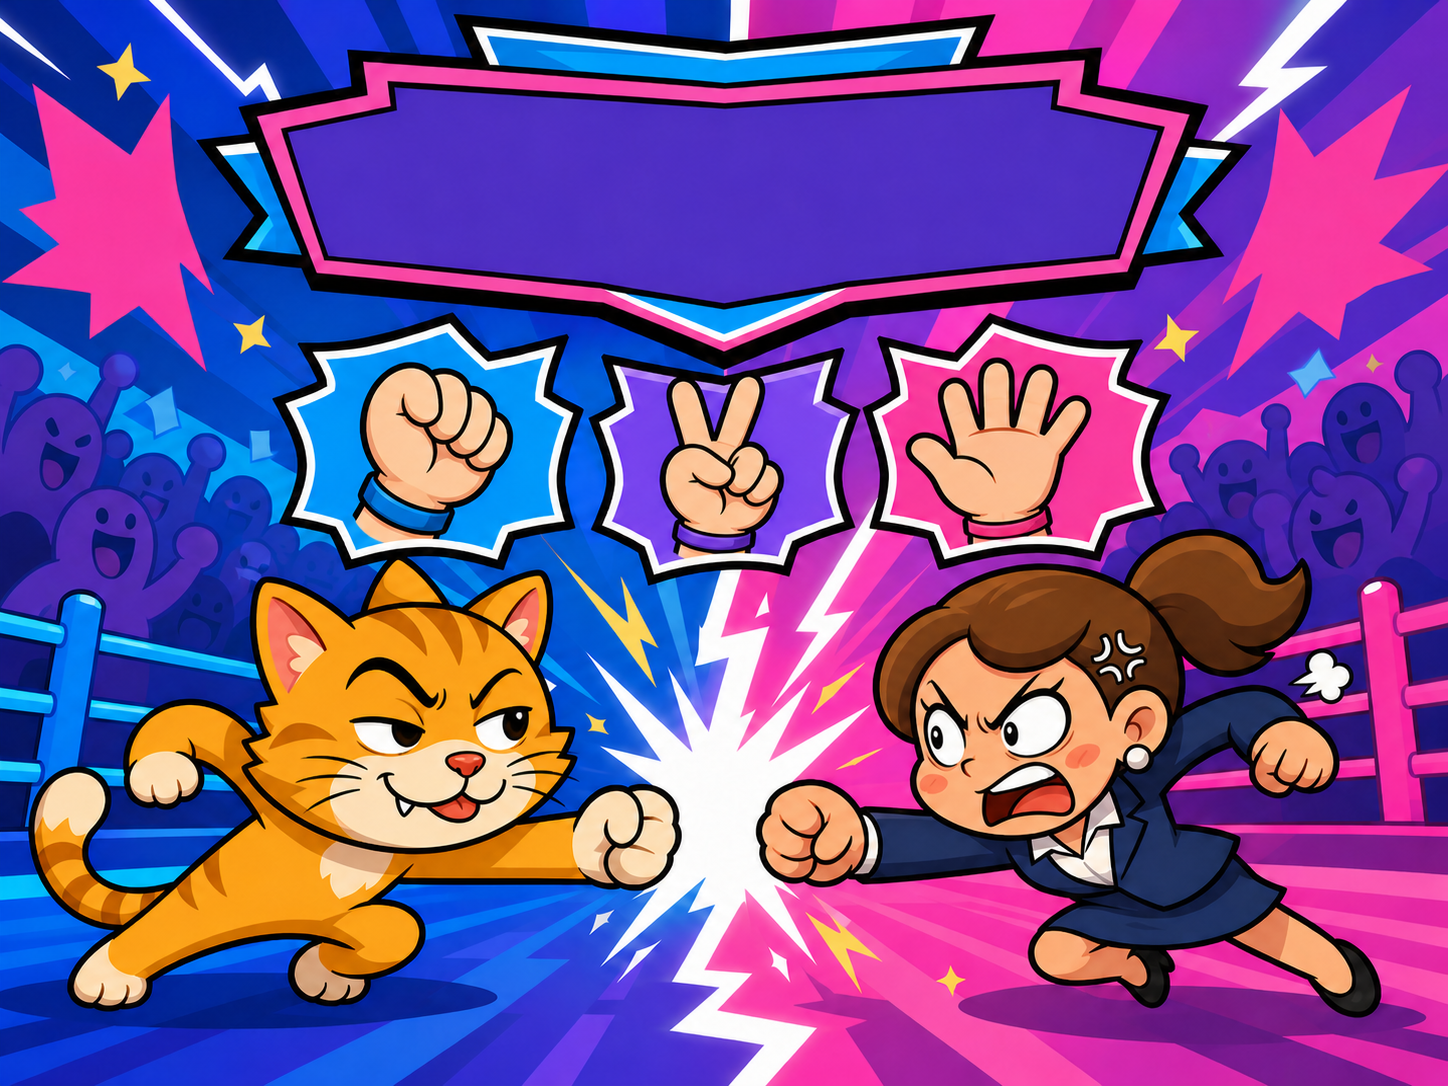
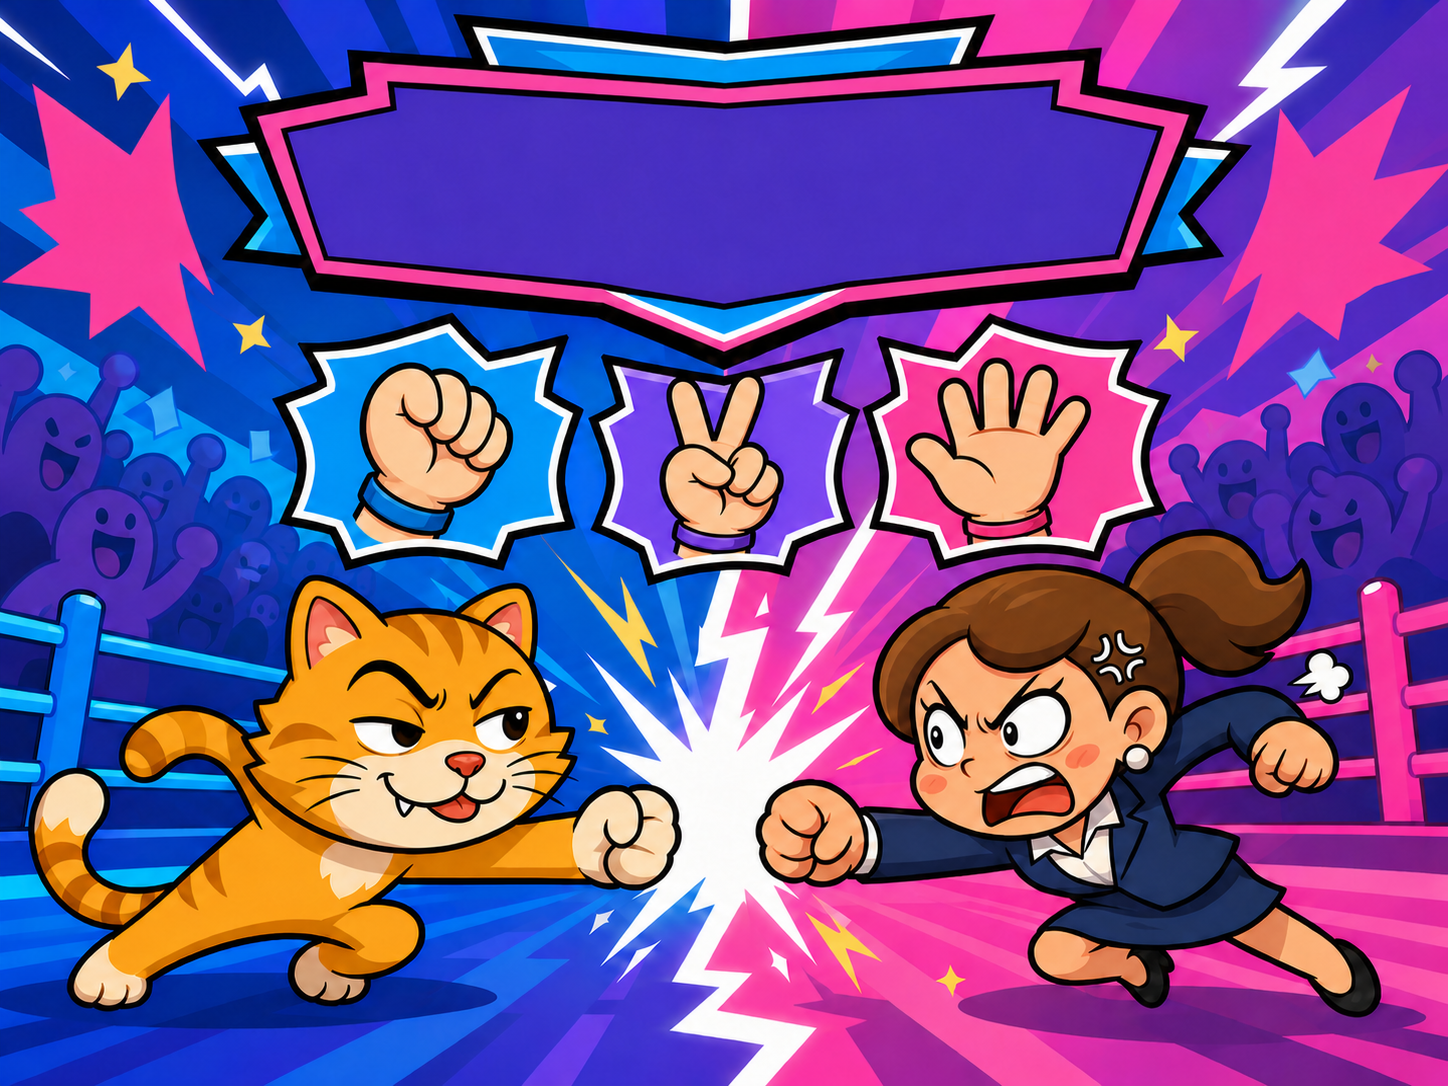
feat(ui): จัด layout หน้าแรกตามโครงเกมที่ 1
ศึกษาหน้าแรกเกมที่ 1 จริงแล้วยกโครงมาใช้:
- ฉากเต็มขอบจอ (วาดบน html canvas · ตัดแผ่นป้ายเปล่าออกจากภาพพื้นหลังกันซ้อนโลโก้)
- โลโก้ลอยกลางจอไม่มีกรอบ · เป็นตัวหดตัวเดียวของหน้า ปุ่มจึงไม่มุดใต้จอ
- เม็ดยาสถานะ 3 อัน (ซีซั่น · ลงสังเวียนแล้ว · จ่าฝูง) แทนบรรทัดข้อความ
- ปุ่มหลักเหลืองใหญ่เด่นตัวเดียว
- Dock แถบล่าง ไอคอน+ชื่อกำกับ (ui/Dock.tsx ใช้ซ้ำได้ · รอไอคอนจริงจาก Codex)
- ชิปลอยมุมจอซ้าย/ขวา

fix: ย้ายการตั้งภาพพื้นหลังจาก CSS ไป React
     เพราะ url() ใน CSS ไม่รู้จัก base path ของ GitHub Pages (/rps-arena/)

verify: เทส 110/110 · flow 16 จอ overflow=0

diff --git a/app/src/styles/global.css b/app/src/styles/global.css
@@ -23,9 +23,11 @@
   color: var(--paper);
 
   /* พื้นหลังวาดบน html canvas — เต็ม viewport เสมอ กันแถบสีหลุดที่ขอบจอ iPad (บทเรียนเกมที่ 1) */
-  background:
-    radial-gradient(circle at 50% 62%, rgba(255, 255, 255, 0.18), transparent 38%),
-    linear-gradient(135deg, var(--ring-blue-deep) 0%, var(--ring-purple) 50%, var(--ring-magenta) 100%);
+  /* ภาพฉากตั้งจาก React (data/assets.ts) เพราะ path ต่างกันระหว่าง dev กับ build บน GitHub Pages
+     วาดบน html canvas เพื่อให้เต็ม viewport เสมอ กันแถบสีหลุดที่ขอบจอ iPad (บทเรียนเกมที่ 1) */
+  background-color: var(--ring-blue-deep);
+  background-size: cover;
+  background-position: center bottom;
   background-attachment: fixed;
 }
 
@@ -548,46 +550,137 @@ img {
   white-space: nowrap;
 }
 
-/* ── หน้าแรก — ภาพไตเติลเต็มจอ + แถบปุ่มล่าง ─────────────── */
+/* ── หน้าแรก — โครงเดียวกับหน้าแรกเกมที่ 1 ─────────────────── */
 .home {
-  justify-content: space-between;
-  gap: clamp(6px, 1dvh, 12px);
-}
-
-/* ภาพเป็นตัวหดตัวเดียวของหน้า — ปุ่มจะได้ไม่มุดใต้จอเวลาจอเตี้ย (บทเรียนเกมที่ 1) */
-.home__art {
-  flex: 0 1 auto;
+  flex: 1 1 auto;
   min-height: 0;
-  max-width: 100%;
-  width: auto;
-  height: auto;
-  object-fit: contain;
-  border: 4px solid var(--ink);
-  border-radius: var(--radius);
-  box-shadow: 0 10px 0 rgba(0, 0, 0, 0.35);
+  display: flex;
+  flex-direction: column;
+  justify-content: space-between;
+  align-items: center;
+  gap: clamp(6px, 1dvh, 14px);
+  text-align: center;
 }
 
-.home__bar {
+/* ชิปมุมจอ */
+.home__topbar {
+  align-self: stretch;
+  display: flex;
+  justify-content: space-between;
   flex-shrink: 0;
+}
+
+.chip-btn {
+  font: inherit;
+  font-weight: 900;
+  font-size: clamp(12px, 1.8dvh, 16px);
+  color: var(--ink);
+  background: var(--paper);
+  border: var(--outline);
+  border-radius: 14px;
+  padding: clamp(6px, 1.1dvh, 11px) clamp(12px, 1.8vw, 20px);
+  box-shadow: 0 5px 0 rgba(0, 0, 0, 0.4);
+  cursor: pointer;
+}
+
+.chip-btn:disabled { opacity: 0.45; cursor: not-allowed; }
+.chip-btn:active:not(:disabled) { transform: translateY(4px); box-shadow: 0 1px 0 rgba(0, 0, 0, 0.4); }
+
+.home__center {
+  flex: 1 1 auto;
+  min-height: 0;
   display: flex;
   flex-direction: column;
   align-items: center;
-  gap: clamp(4px, 0.8dvh, 10px);
-  width: 100%;
+  justify-content: center;
+  gap: clamp(6px, 1.4dvh, 18px);
 }
 
-.home__status {
+/* โลโก้เป็นตัวหดตัวเดียวของหน้า — dock กับปุ่มจะได้ไม่มุดใต้จอ (บทเรียนเกมที่ 1) */
+.home__logo {
+  flex: 0 1 auto;
+  min-height: 0;
+  max-width: min(680px, 84vw);
+  max-height: 42dvh;
+  width: auto;
+  height: auto;
+  object-fit: contain;
+  filter: drop-shadow(0 10px 0 rgba(0, 0, 0, 0.35));
+}
+
+/* เม็ดยาสถานะ — แบบแถวสถิติในหน้าแรกเกมที่ 1 */
+.home__stats {
   display: flex;
-  gap: clamp(8px, 1.6vw, 20px);
+  gap: clamp(6px, 1.2vw, 14px);
   flex-wrap: wrap;
   justify-content: center;
-  font-weight: 800;
-  font-size: clamp(11px, 1.7dvh, 15px);
+  flex-shrink: 0;
 }
 
-.home__season { color: var(--spark); }
-.home__armed { opacity: 0.85; }
-.home__leader { color: var(--spark); }
+.stat-pill {
+  display: flex;
+  flex-direction: column;
+  align-items: center;
+  gap: 1px;
+  min-width: clamp(96px, 13vw, 150px);
+  padding: clamp(5px, 1dvh, 10px) clamp(10px, 1.6vw, 18px);
+  background: var(--paper);
+  color: var(--ink);
+  border: var(--outline);
+  border-radius: 16px;
+  box-shadow: 0 5px 0 rgba(0, 0, 0, 0.32);
+}
+
+.stat-pill b { font-size: clamp(15px, 2.5dvh, 22px); line-height: 1.1; }
+.stat-pill span { font-size: clamp(10px, 1.5dvh, 13px); opacity: 0.72; font-weight: 700; }
+
+.home__cta { font-size: clamp(17px, 2.8dvh, 25px); }
+.home__hint { margin: 0; font-size: clamp(11px, 1.7dvh, 15px); opacity: 0.85; }
+
+/* ── dock แถบเมนูล่าง — แบบเกมที่ 1 ─────────────────────── */
+.dock {
+  flex-shrink: 0;
+  display: flex;
+  gap: clamp(6px, 1.4vw, 18px);
+  justify-content: center;
+  padding: clamp(6px, 1.1dvh, 12px) clamp(12px, 2vw, 26px);
+  background: rgba(16, 18, 45, 0.82);
+  border: var(--outline);
+  border-radius: 22px;
+  box-shadow: 0 8px 0 rgba(0, 0, 0, 0.3);
+}
+
+.dock-btn {
+  font: inherit;
+  color: var(--paper);
+  background: none;
+  border: none;
+  display: flex;
+  flex-direction: column;
+  align-items: center;
+  gap: 3px;
+  padding: 2px 6px;
+  cursor: pointer;
+}
+
+.dock-btn:disabled { opacity: 0.42; cursor: not-allowed; }
+.dock-btn:active:not(:disabled) { transform: translateY(3px); }
+
+.dock-btn__icon {
+  display: grid;
+  place-items: center;
+  width: clamp(44px, 7.5dvh, 64px);
+  height: clamp(44px, 7.5dvh, 64px);
+  background: var(--spark);
+  border: 3px solid var(--ink);
+  border-radius: 14px;
+  box-shadow: 0 4px 0 rgba(0, 0, 0, 0.35);
+  overflow: hidden;
+}
+
+.dock-btn__icon img { width: 100%; height: 100%; object-fit: cover; }
+.dock-btn__short { color: var(--ink); font-weight: 900; font-size: clamp(12px, 1.9dvh, 16px); }
+.dock-btn__label { font-weight: 800; font-size: clamp(10px, 1.5dvh, 13px); }
 
 /* ── ไอคอนท่ามือ ───────────────────────────────────────── */
 .move-icon {

diff --git a/app/src/features/home/HomeScene.tsx b/app/src/features/home/HomeScene.tsx
@@ -4,6 +4,7 @@ import { gameAssets } from "../../data/assets";
 import { isInArena } from "../../state/gameState";
 import { useGameStore } from "../../state/useGameStore";
 import { Button } from "../../ui/Button";
+import { Dock } from "../../ui/Dock";
 
 interface Props {
   onStartRound: () => void;
@@ -12,47 +13,70 @@ interface Props {
   onPlayers: () => void;
 }
 
-/** หน้าแรก — ภาพไตเติลเต็มจอ + แถบปุ่มด้านล่าง (โครงเดียวกับหน้าแรกเกมที่ 1) */
+/**
+ * หน้าแรก — โครงเดียวกับหน้าแรกเกมที่ 1:
+ * ฉากเต็มขอบจอ · โลโก้ลอยกลาง · เม็ดยาสถานะ · ปุ่มหลักเด่นตัวเดียว · dock ล่าง · ชิปมุมจอ
+ */
 export function HomeScene({ onStartRound, onRanking, onOffRound, onPlayers }: Props) {
   const { state } = useGameStore();
   const ranked = rankPlayers(state.players);
   const armed = state.players.filter(isInArena).length;
   const leader = ranked[0];
+  const noPlayers = state.players.length === 0;
 
   return (
-    <section className="scene home">
+    <section className="home">
       <h1 className="visually-hidden">เป่า ยิ้ง ฉุบ! อารีน่า!</h1>
 
-      <img className="home__art" src={gameAssets.homeTitle} alt="เป่า ยิ้ง ฉุบ! อารีน่า!" />
-
-      <div className="home__bar">
-        <div className="home__status">
-          <span className="home__season">ซีซั่น {state.season.id}</span>
-          <span className="home__armed">
-            ลงสังเวียนแล้ว {armed}/{state.players.length} คน
-          </span>
-          {leader && (
-            <span className="home__leader">
-              จ่าฝูง: {leader.player.name} · {formatTenths(leader.player.mainScoreTenths)} แต้ม
-            </span>
-          )}
-        </div>
-
-        <div className="button-row">
-          <Button variant="ghost" onClick={onPlayers}>
-            ผู้เล่น
-          </Button>
-          <Button variant="ghost" onClick={onOffRound} disabled={armed < 2}>
-            ดวลนอกรอบ
-          </Button>
-          <Button variant="ghost" onClick={onRanking} disabled={state.players.length === 0}>
-            อันดับ
-          </Button>
-          <Button onClick={onStartRound} disabled={state.players.length === 0}>
-            จ่าย {state.config.coinCost} เหรียญ เริ่มรอบ
-          </Button>
-        </div>
+      <div className="home__topbar">
+        <button type="button" className="chip-btn" onClick={onPlayers}>
+          ผู้เล่น
+        </button>
+        <button type="button" className="chip-btn" disabled={noPlayers} onClick={onRanking}>
+          อันดับ
+        </button>
       </div>
+
+      <div className="home__center">
+        <img className="home__logo" src={gameAssets.logo} alt="เป่า ยิ้ง ฉุบ! อารีน่า!" />
+
+        <div className="home__stats">
+          <div className="stat-pill">
+            <b>{state.season.id}</b>
+            <span>ซีซั่นนี้</span>
+          </div>
+          <div className="stat-pill">
+            <b>
+              {armed}/{state.players.length}
+            </b>
+            <span>ลงสังเวียนแล้ว</span>
+          </div>
+          <div className="stat-pill">
+            <b>{leader ? formatTenths(leader.player.mainScoreTenths) : "—"}</b>
+            <span>{leader ? `จ่าฝูง: ${leader.player.name}` : "ยังไม่มีจ่าฝูง"}</span>
+          </div>
+        </div>
+
+        <Button className="home__cta" disabled={noPlayers} onClick={onStartRound}>
+          จ่าย {state.config.coinCost} เหรียญ · เริ่มรอบ
+        </Button>
+        {noPlayers && <p className="home__hint">ยังไม่มีผู้เล่นเลย — กด "ผู้เล่น" มุมซ้ายบนเพื่อลงทะเบียนก่อนนะคะ</p>}
+      </div>
+
+      <Dock
+        items={[
+          { key: "players", label: "ผู้เล่น", short: "คน", onClick: onPlayers },
+          {
+            key: "offround",
+            label: "ดวลนอกรอบ",
+            short: "VS",
+            onClick: onOffRound,
+            disabled: armed < 2,
+            disabledNote: "ต้องมีคนลงสังเวียนอย่างน้อย 2 คน",
+          },
+          { key: "ranking", label: "อันดับ", short: "อันดับ", onClick: onRanking, disabled: noPlayers },
+        ]}
+      />
     </section>
   );
 }

diff --git a/app/src/ui/Dock.tsx b/app/src/ui/Dock.tsx
@@ -1,0 +1,36 @@
+// แถบเมนูล่างแบบเกมที่ 1 — ปุ่มไอคอน + ชื่อกำกับ เรียงเป็นแถว
+import type { ReactNode } from "react";
+
+export interface DockItem {
+  key: string;
+  label: string;
+  /** ไอคอนจริง (รอ Codex) — ยังไม่มีก็ใช้ตัวย่อภาษาไทยไปก่อน */
+  icon?: string;
+  short: ReactNode;
+  onClick: () => void;
+  disabled?: boolean;
+  disabledNote?: string;
+}
+
+export function Dock({ items }: { items: DockItem[] }) {
+  return (
+    <nav className="dock">
+      {items.map((item) => (
+        <button
+          key={item.key}
+          type="button"
+          className="dock-btn"
+          data-dock={item.key}
+          disabled={item.disabled}
+          title={item.disabled ? item.disabledNote : undefined}
+          onClick={item.onClick}
+        >
+          <span className="dock-btn__icon">
+            {item.icon ? <img src={item.icon} alt="" /> : <span className="dock-btn__short">{item.short}</span>}
+          </span>
+          <span className="dock-btn__label">{item.label}</span>
+        </button>
+      ))}
+    </nav>
+  );
+}

diff --git a/app/src/App.tsx b/app/src/App.tsx
@@ -1,4 +1,5 @@
-import { useCallback, useState } from "react";
+import { useCallback, useEffect, useState } from "react";
+import { gameAssets } from "./data/assets";
 import { randomChallengerId } from "./domain/rpsEngine";
 import type { Move } from "./domain/types";
 import { endRound, performDuel, startRound } from "./state/actions";
@@ -50,6 +51,12 @@ export function App() {
   const [rankingBack, setRankingBack] = useState<Phase>("home");
 
   const activeId = state.round?.playerId ?? null;
+
+  // วาดฉากลงบน html canvas — เต็ม viewport เสมอ ไม่มีแถบสีหลุดที่ขอบจอ iPad
+  useEffect(() => {
+    const root = document.documentElement;
+    root.style.backgroundImage = `linear-gradient(rgba(10, 14, 50, 0.55), rgba(10, 14, 50, 0.55)), url("${gameAssets.bgArena}")`;
+  }, []);
 
   const fail = useCallback((caught: unknown) => {
     setError(caught instanceof Error ? caught.message : "เกิดข้อผิดพลาด");

diff --git a/app/src/data/assets.ts b/app/src/data/assets.ts
@@ -10,6 +10,7 @@ function asset(path: string): string {
 export const gameAssets = {
   logo: asset("logo.png"),
   homeTitle: asset("home-title.png"),
+  bgArena: asset("bg-arena.png"),
   moveRock: asset("moves/rock.png"),
   moveScissors: asset("moves/scissors.png"),
   movePaper: asset("moves/paper.png"),